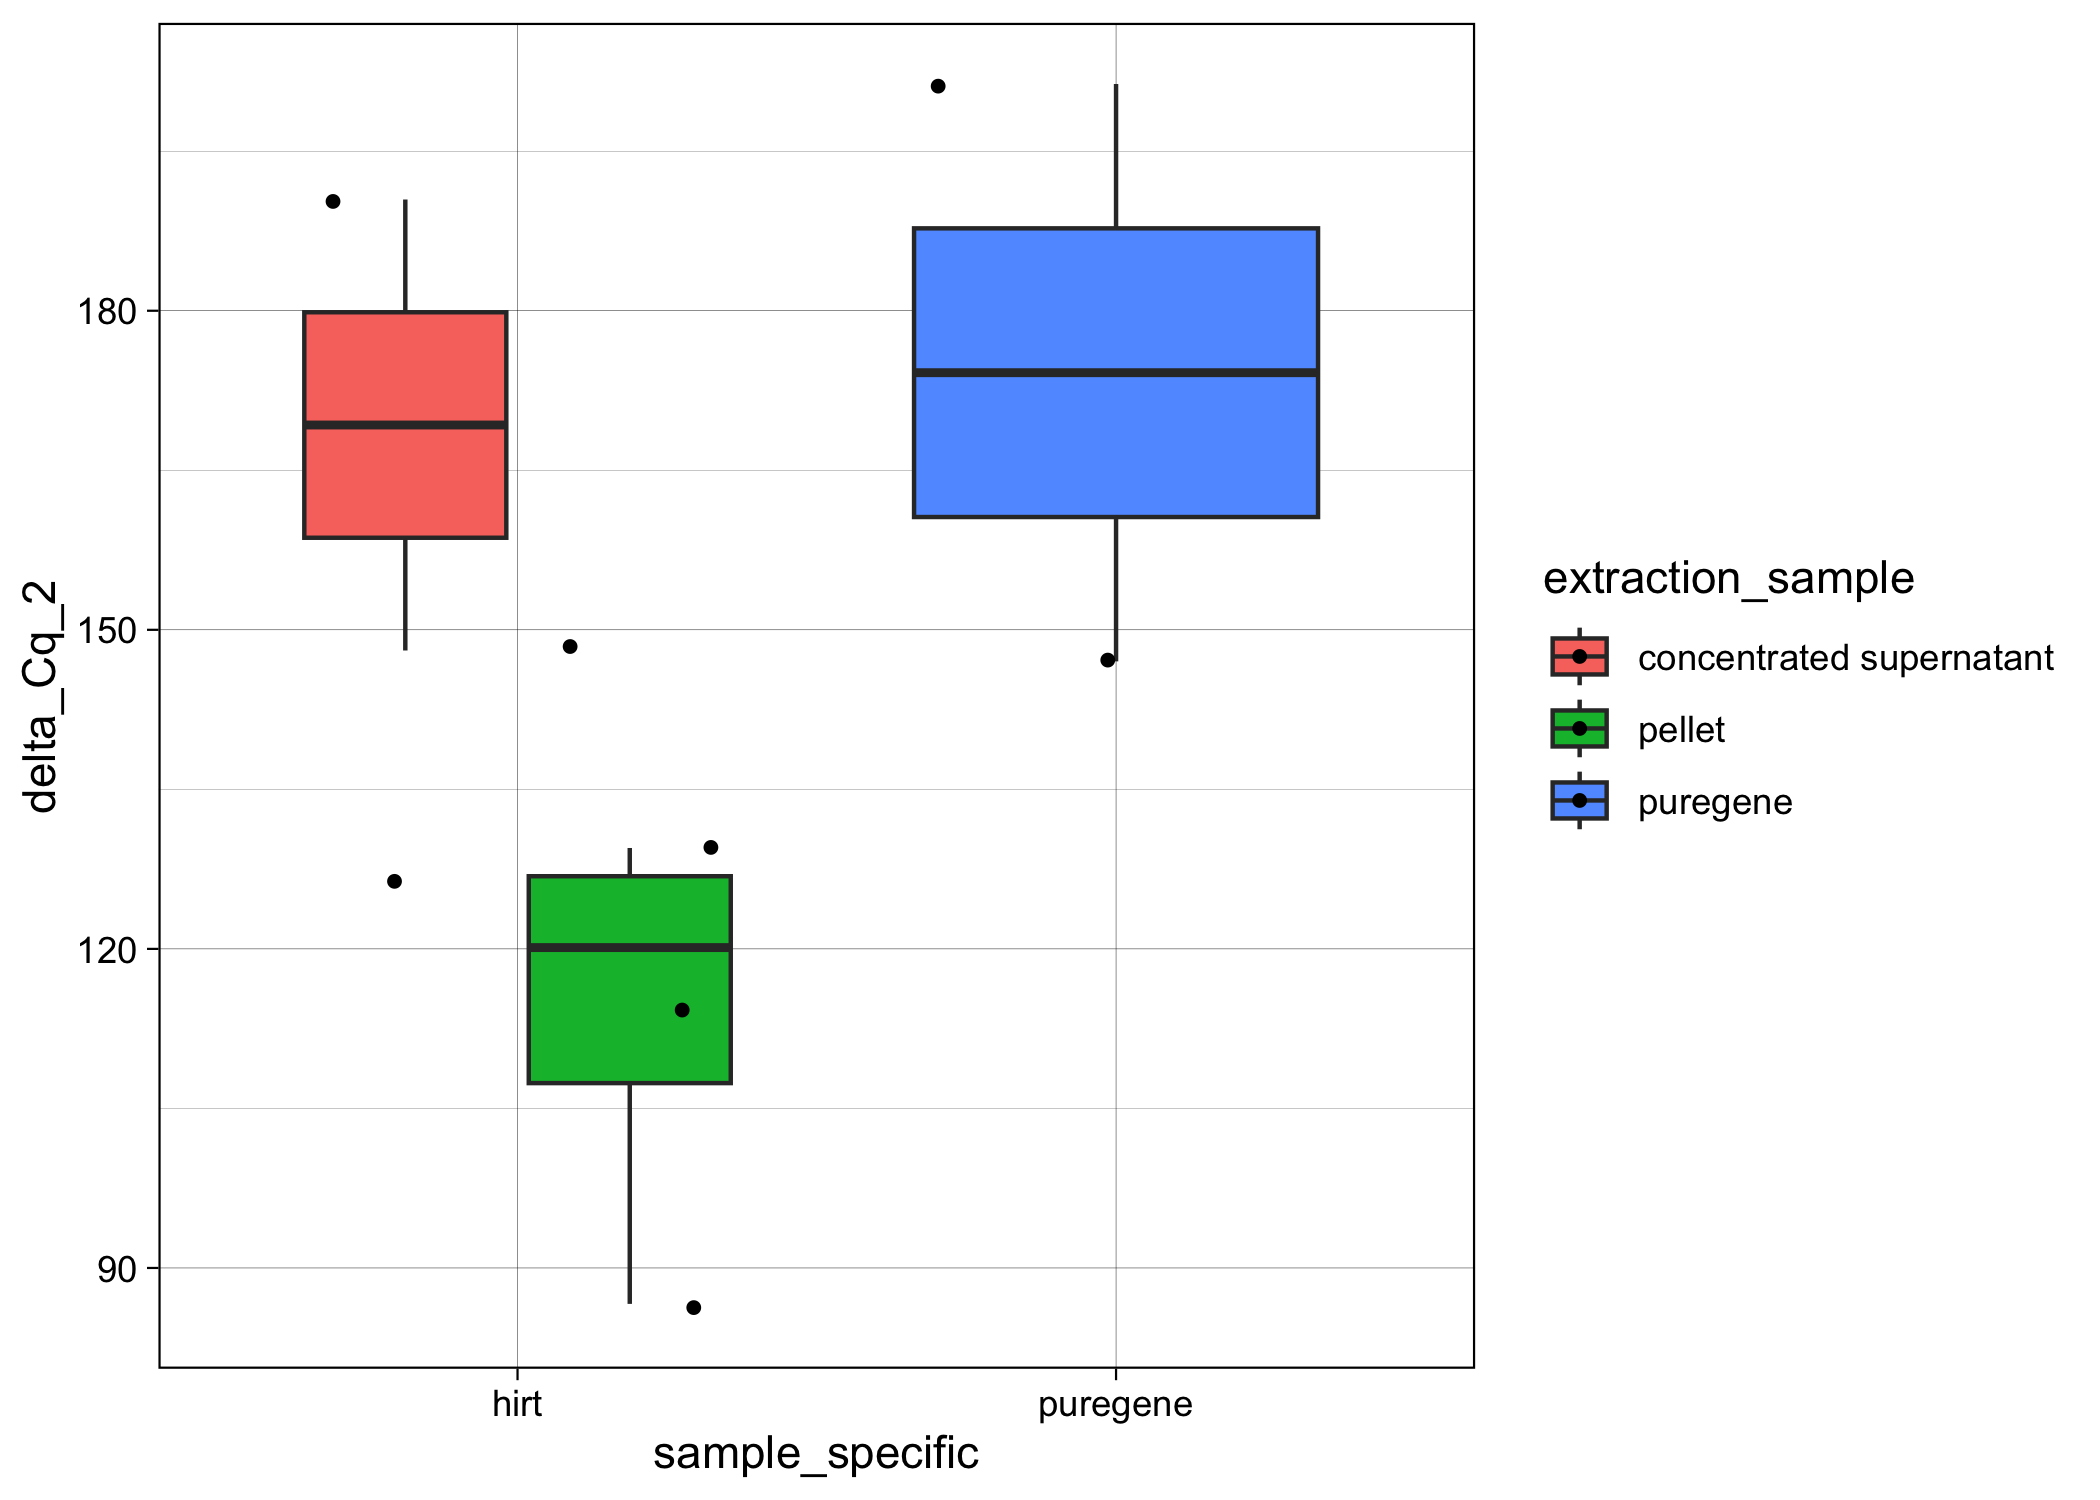
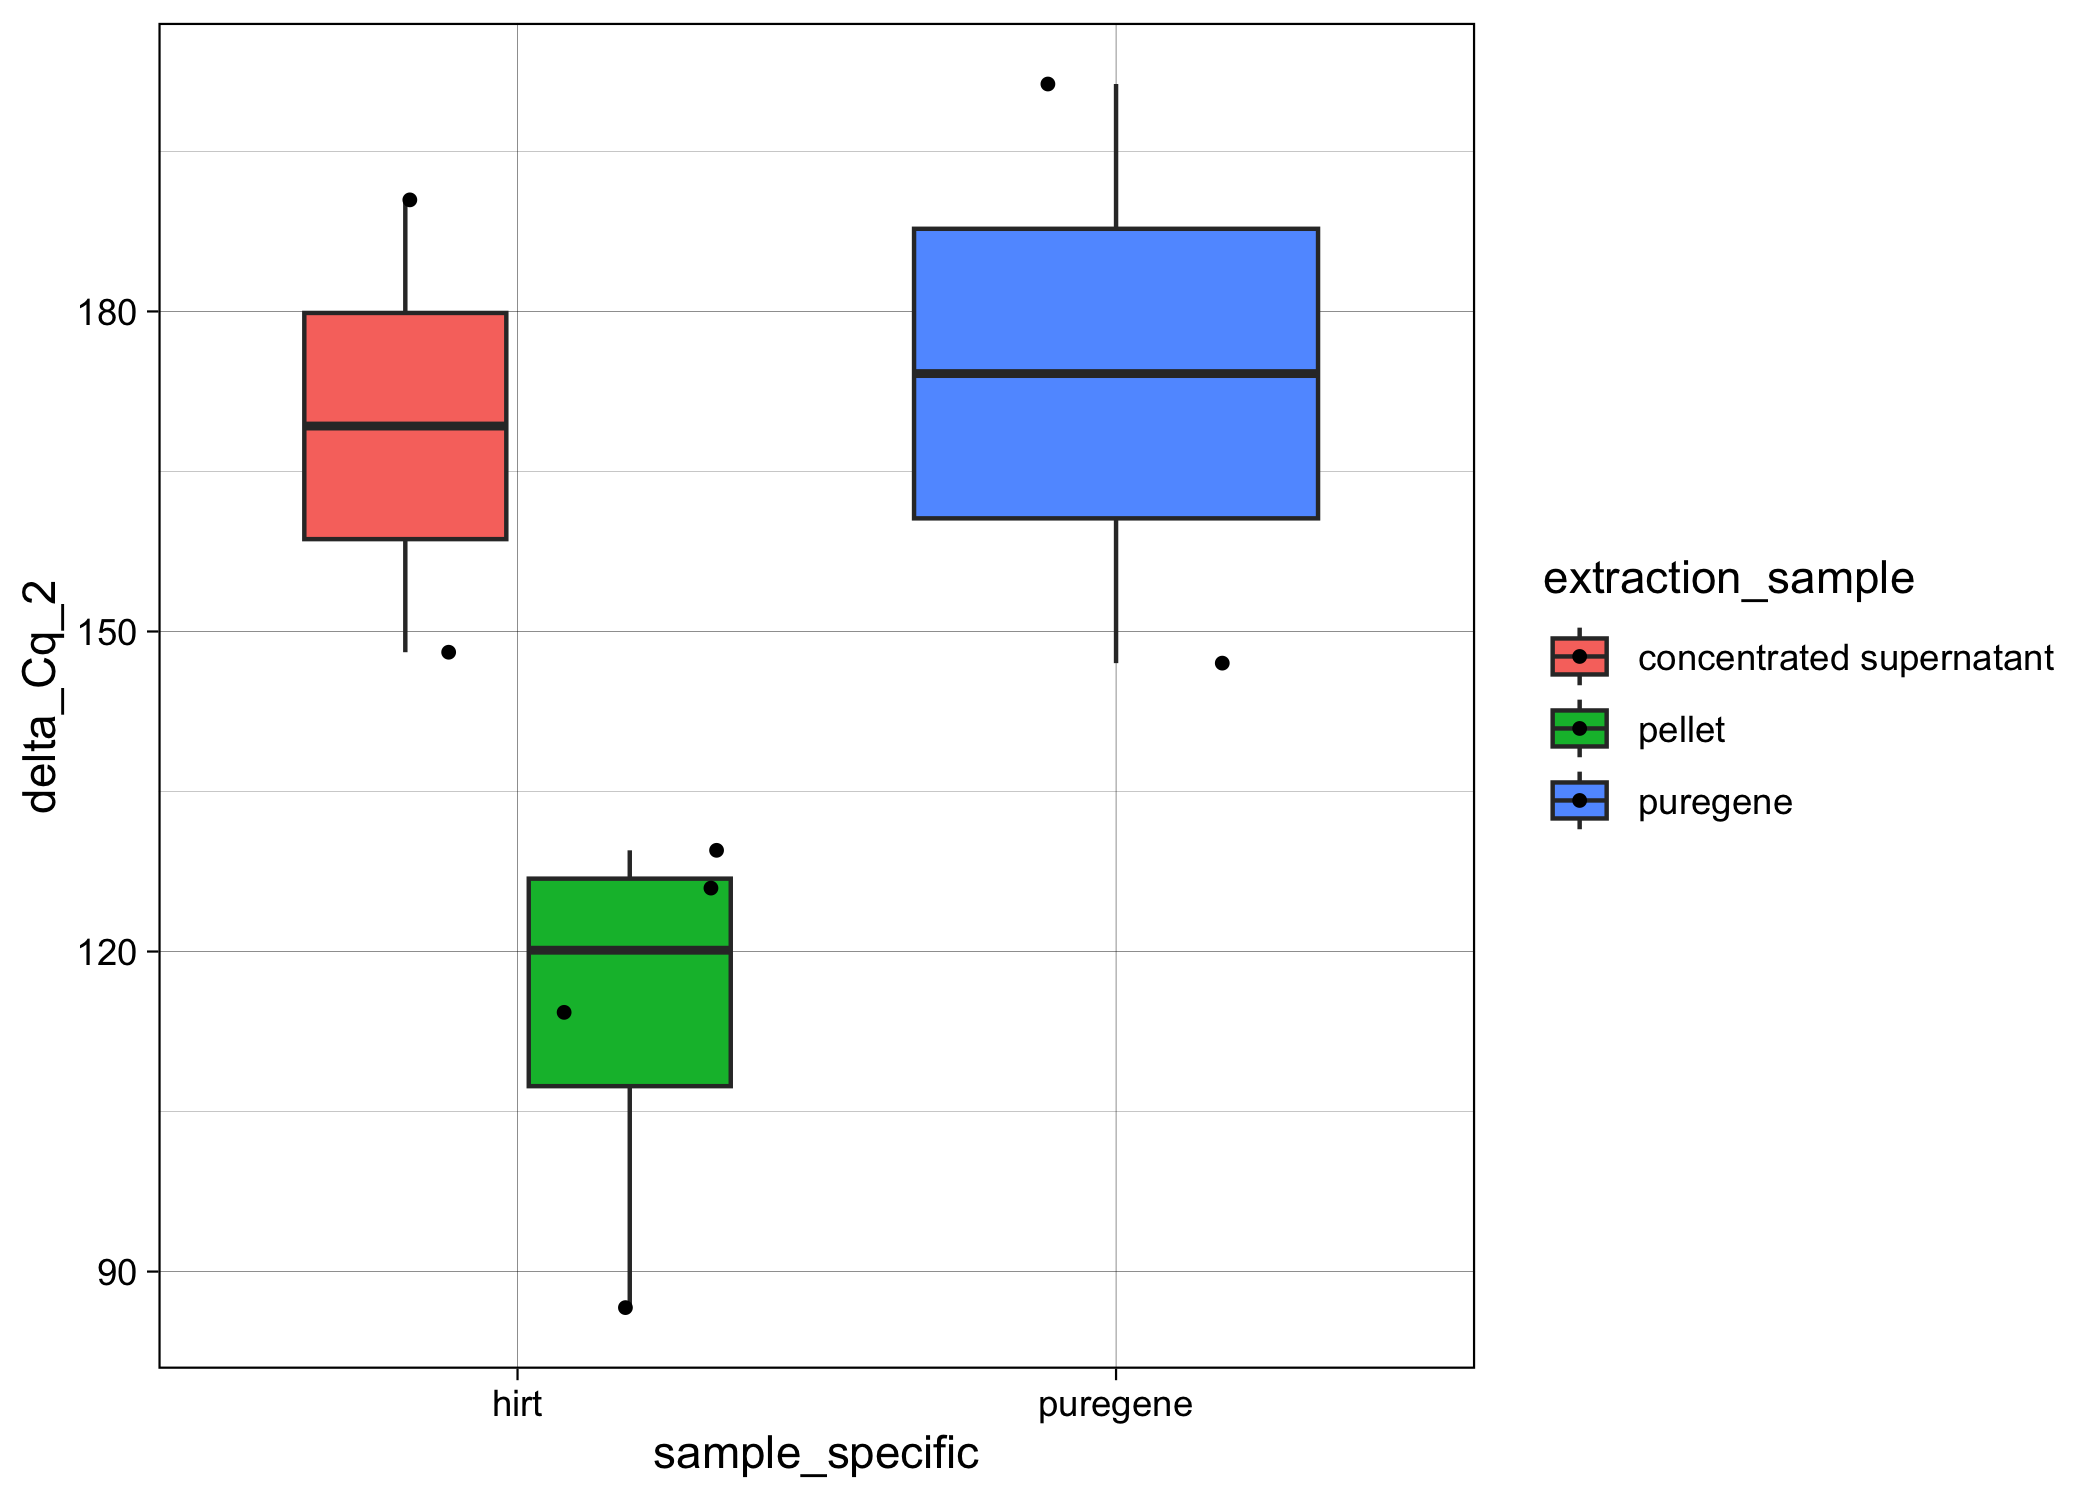
updating analyses

diff --git a/qPCR_analysis/20231117-fly-extract-analysis/20231117-fly-dead-Cq-analaysis.md b/qPCR_analysis/20231117-fly-extract-analysis/20231117-fly-dead-Cq-analaysis.md
@@ -1,20 +1,26 @@
----
-title: "20231117-fly-death-Cq-analysis"
-format: gfm
-editor: visual
----
+# 20231117-fly-death-Cq-analysis
 
-```{r}
+``` r
 library(ggplot2)
 library(dplyr)
+```
+
+
+    Attaching package: 'dplyr'
+
+    The following objects are masked from 'package:stats':
+
+        filter, lag
+
+    The following objects are masked from 'package:base':
+
+        intersect, setdiff, setequal, union
+
+``` r
 library(tidyr)
 ```
 
-```{r setup, include=FALSE}
-knitr::opts_chunk$set(dpi=300,fig.width=7)
-```
-
-```{r}
+``` r
 Cq_values <- read.csv("/Users/maggieschedl/Desktop/Github/Unckless_Lab_Resources/qPCR_analysis/20231117-fly-extract-analysis/20231117-qPCR-sheet.csv")
 
 # remove the rows that have samples for a different project 
@@ -24,21 +30,24 @@ Cq_values_sub <- Cq_values[c(25:48, 73:96),]
 # I know that the variance is high for the water with TPI, see https://github.com/meschedl/Unckless_Lab_Resources/blob/main/qPCR_analysis/20231117-hirt-extract-analysis/20231117-qPCR-hirt-extract-analysis.md
 
 Cq_values_sub <- Cq_values_sub[which(Cq_values_sub$volume != "water"),]
-
 ```
 
 Look at raw Cq values by day dead and primer
 
-```{r}
+``` r
 # if you want to also include another varaible to separate out the histogram by, you can include a facet 
 ggplot(Cq_values_sub, aes(x= Cq, fill = primer)) + geom_histogram(position = "dodge") + facet_grid(~day_dead) 
 ```
+
+    `stat_bin()` using `bins = 30`. Pick better value with `binwidth`.
+
+![](20231117-fly-dead-Cq-analaysis_files/figure-commonmark/unnamed-chunk-3-1.png)
 
 Seems like a vary large increase in amount of virus
 
 Calculate variance and mean of Cq value between the technical replicates
 
-```{r}
+``` r
 # use the variance function, and calculates the variance in Cq by the unique.name (each sample/primer has 3 Cq values to 
 # calculate the variance by)
 Cq_values_sub$Cq_var <- ave(Cq_values_sub$Cq, Cq_values_sub$unique_name, FUN=var)
@@ -53,14 +62,51 @@ Cq_values_1rep <- Cq_values_sub[which(Cq_values_sub$qPCR_replicate == "1"),]
 
 # histogram of all variances
 ggplot(Cq_values_1rep, aes(x=Cq_var)) + geom_histogram(bins = 50)
+```
 
+![](20231117-fly-dead-Cq-analaysis_files/figure-commonmark/unnamed-chunk-4-1.png)
+
+``` r
 # there are 3 samples with kind of high variance, but they all are below 1 which is good 
 
 # what are those 3 samples 
 
 high_var <- Cq_values_sub[which(Cq_values_sub$Cq_var >.1),]
 high_var
+```
 
+       Well qPCR_replicate sample_ID primer sample_type sample_specific
+    73  G01              1    14 fly   PIF3         fly            day0
+    74  G02              2    14 fly   PIF3         fly            day0
+    75  G03              3    14 fly   PIF3         fly            day0
+    76  G04              1    15 fly   PIF3         fly            day0
+    77  G05              2    15 fly   PIF3         fly            day0
+    78  G06              3    15 fly   PIF3         fly            day0
+    79  G07              1    17 fly   PIF3         fly            day0
+    80  G08              2    17 fly   PIF3         fly            day0
+    81  G09              3    17 fly   PIF3         fly            day0
+       extraction_sample volume unique_name    sex day_dead    Cq    Cq_var
+    73               fly    fly 14 fly PIF3 female     day0 31.29 0.1566333
+    74               fly    fly 14 fly PIF3 female     day0 31.39 0.1566333
+    75               fly    fly 14 fly PIF3 female     day0 32.02 0.1566333
+    76               fly    fly 15 fly PIF3 female     day0 31.01 0.1825333
+    77               fly    fly 15 fly PIF3 female     day0 31.75 0.1825333
+    78               fly    fly 15 fly PIF3 female     day0 31.75 0.1825333
+    79               fly    fly 17 fly PIF3   male     day0 30.81 0.1308333
+    80               fly    fly 17 fly PIF3   male     day0 31.41 0.1308333
+    81               fly    fly 17 fly PIF3   male     day0 30.76 0.1308333
+        Cq_mean
+    73 31.56667
+    74 31.56667
+    75 31.56667
+    76 31.50333
+    77 31.50333
+    78 31.50333
+    79 30.99333
+    80 30.99333
+    81 30.99333
+
+``` r
 # all PIF3 day0 flies, which would have a low amount of virus 
 # the Cqs are all pretty similar 
 # I am going to leave them how they are 
@@ -70,25 +116,45 @@ ggplot(Cq_values_1rep, aes(x=Cq_mean, y=Cq_var)) +
   geom_point(size=2, shape=23)
 ```
 
-No pattern except for those few samples where the higher PIF3 has the higher variance
+![](20231117-fly-dead-Cq-analaysis_files/figure-commonmark/unnamed-chunk-4-2.png)
 
-```{r}
+No pattern except for those few samples where the higher PIF3 has the
+higher variance
+
+``` r
 # first the samples need to be ordered where each samples with both primers is one after the other 
 # ordering by sample ID 
 Cq_values_1rep <- Cq_values_1rep[order(Cq_values_1rep$sample_ID),]
 # great this orders all the samples, with TPI first and PIF3 second 
 nrow(Cq_values_1rep)
+```
 
+    [1] 14
+
+``` r
 # Separate that dataframe, incriminating by 2, every number between 1-14 (number of rows in dataframe)
 Cq_values_1rep$Cq_mean[seq(1,14,2)] # these are the TPI Cq means 
-Cq_values_1rep$Cq_mean[seq(2,14,2)] # these are the PIF 3 primer Cq means 
+```
 
+    [1] 23.33667 23.40333 23.69333 25.65333 23.85667 24.22333 26.05667
+
+``` r
+Cq_values_1rep$Cq_mean[seq(2,14,2)] # these are the PIF 3 primer Cq means 
+```
+
+    [1] 31.56667 31.50333 30.99333 16.59333 14.92667 15.62333 15.95000
+
+``` r
 # make the delta Cq by subtracting the PIF 3 values from the TPI primer values
 # and this is saved as a vector in R 
 delta_Cqs <- Cq_values_1rep$Cq_mean[seq(1,14,2)] - Cq_values_1rep$Cq_mean[seq(2,14,2)]
 #vector
 delta_Cqs
+```
 
+    [1] -8.23000 -8.10000 -7.30000  9.06000  8.93000  8.60000 10.10667
+
+``` r
 # Keep only rows that are PIF3
 Cq_values1rep_Delta <- Cq_values_1rep[which(Cq_values_1rep$primer == "PIF3"),]
 # And then add in the delta Cqs as a new column
@@ -101,5 +167,6 @@ Cq_values1rep_Delta$delta_Cq_2 <- 2^(delta_Cqs)
 Cq_values1rep_Delta$day_dead <- factor(Cq_values1rep_Delta$day_dead, levels=c("day0", "day9", "day10", "day12"))
 # plot 
 ggplot(Cq_values1rep_Delta, aes(y= delta_Cq_2, x=day_dead, color=sex)) + geom_boxplot()  + theme_linedraw() + geom_point(position="jitter", size=3) 
-
 ```
+
+![](20231117-fly-dead-Cq-analaysis_files/figure-commonmark/unnamed-chunk-5-1.png)

diff --git a/qPCR_analysis/20231117-hirt-extract-analysis/20231117-qPCR-hirt-extract-analysis.md b/qPCR_analysis/20231117-hirt-extract-analysis/20231117-qPCR-hirt-extract-analysis.md
@@ -138,7 +138,7 @@ Cq_values1rep_Delta$delta_Cq <- delta_Cqs
 Cq_values1rep_Delta$delta_Cq_2 <- 2^(delta_Cqs)
 
 
-ggplot(Cq_values1rep_Delta, aes(y= delta_Cq_2, x=sample_specific, fill=extraction_sample)) + geom_boxplot()  + theme_linedraw() + geom_point(position="jitter", size=1) 
+ggplot(Cq_values1rep_Delta, aes(y= delta_Cq_2, x=sample_specific, fill=extraction_sample)) + geom_boxplot()  + theme_linedraw() + geom_point(position=position_jitterdodge(), size=1) 
 ```
 
 ![](20231117-qPCR-hirt-extract-analysis_files/figure-commonmark/unnamed-chunk-6-1.png)
